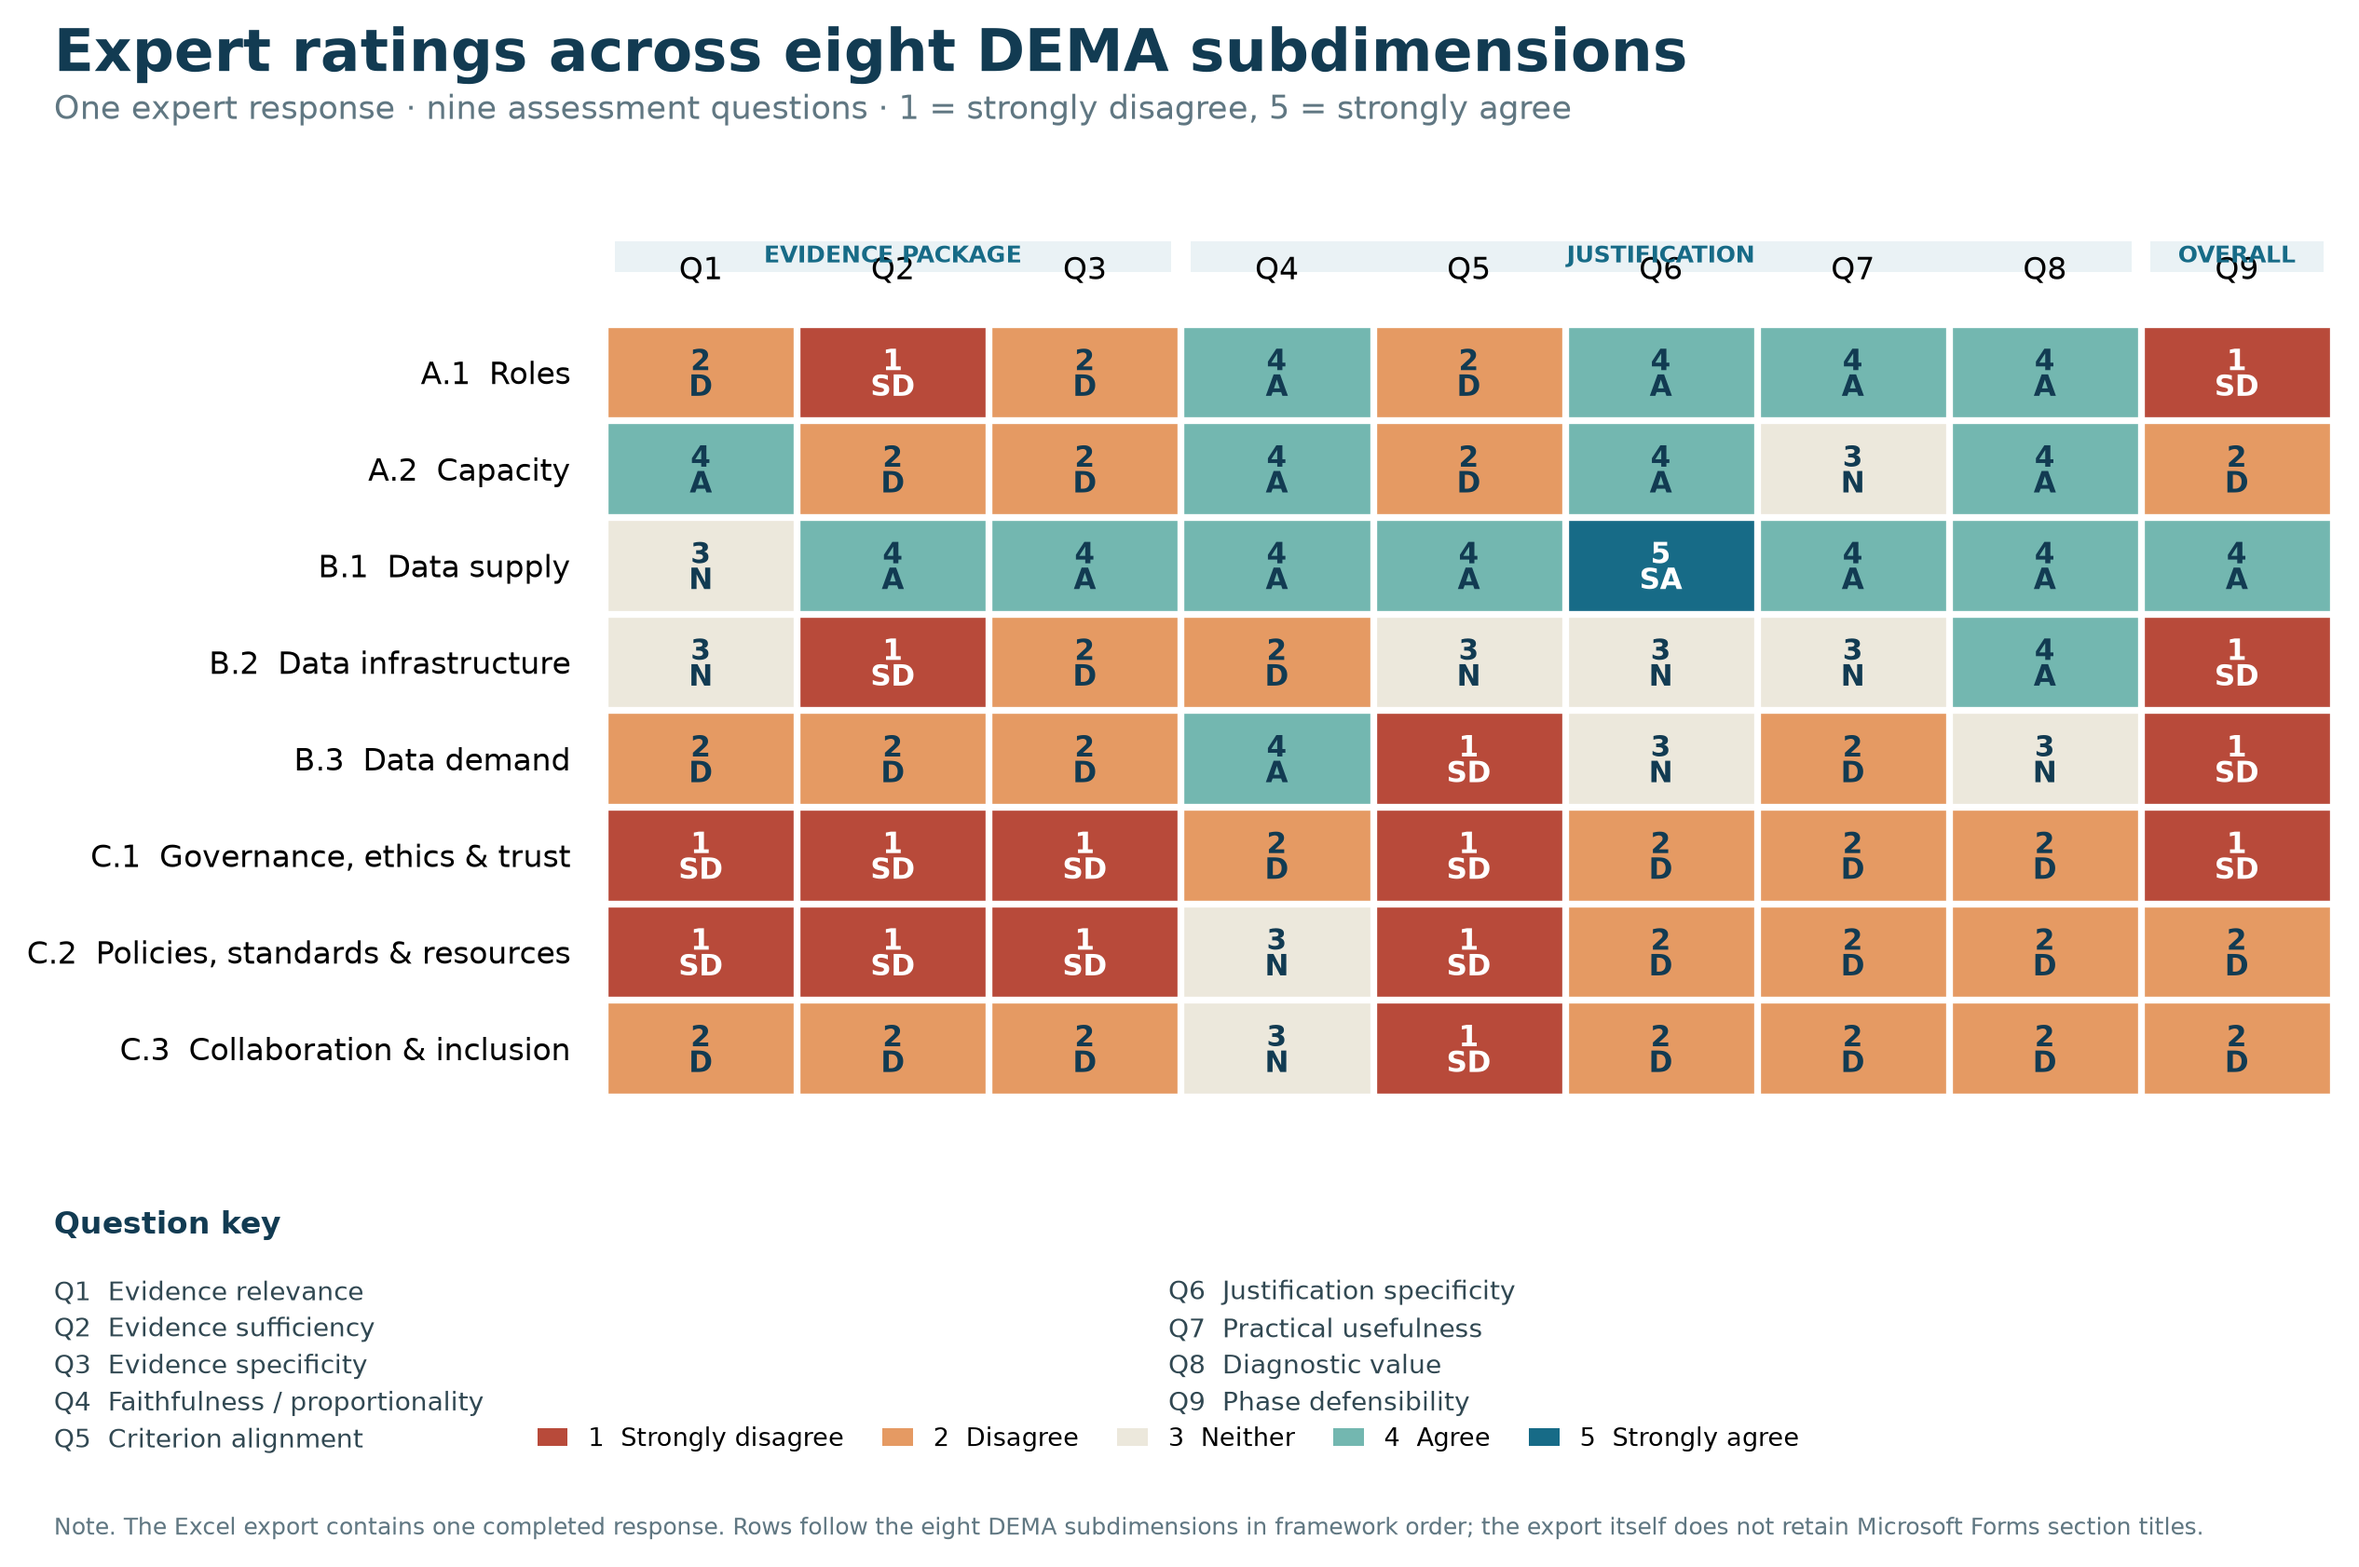
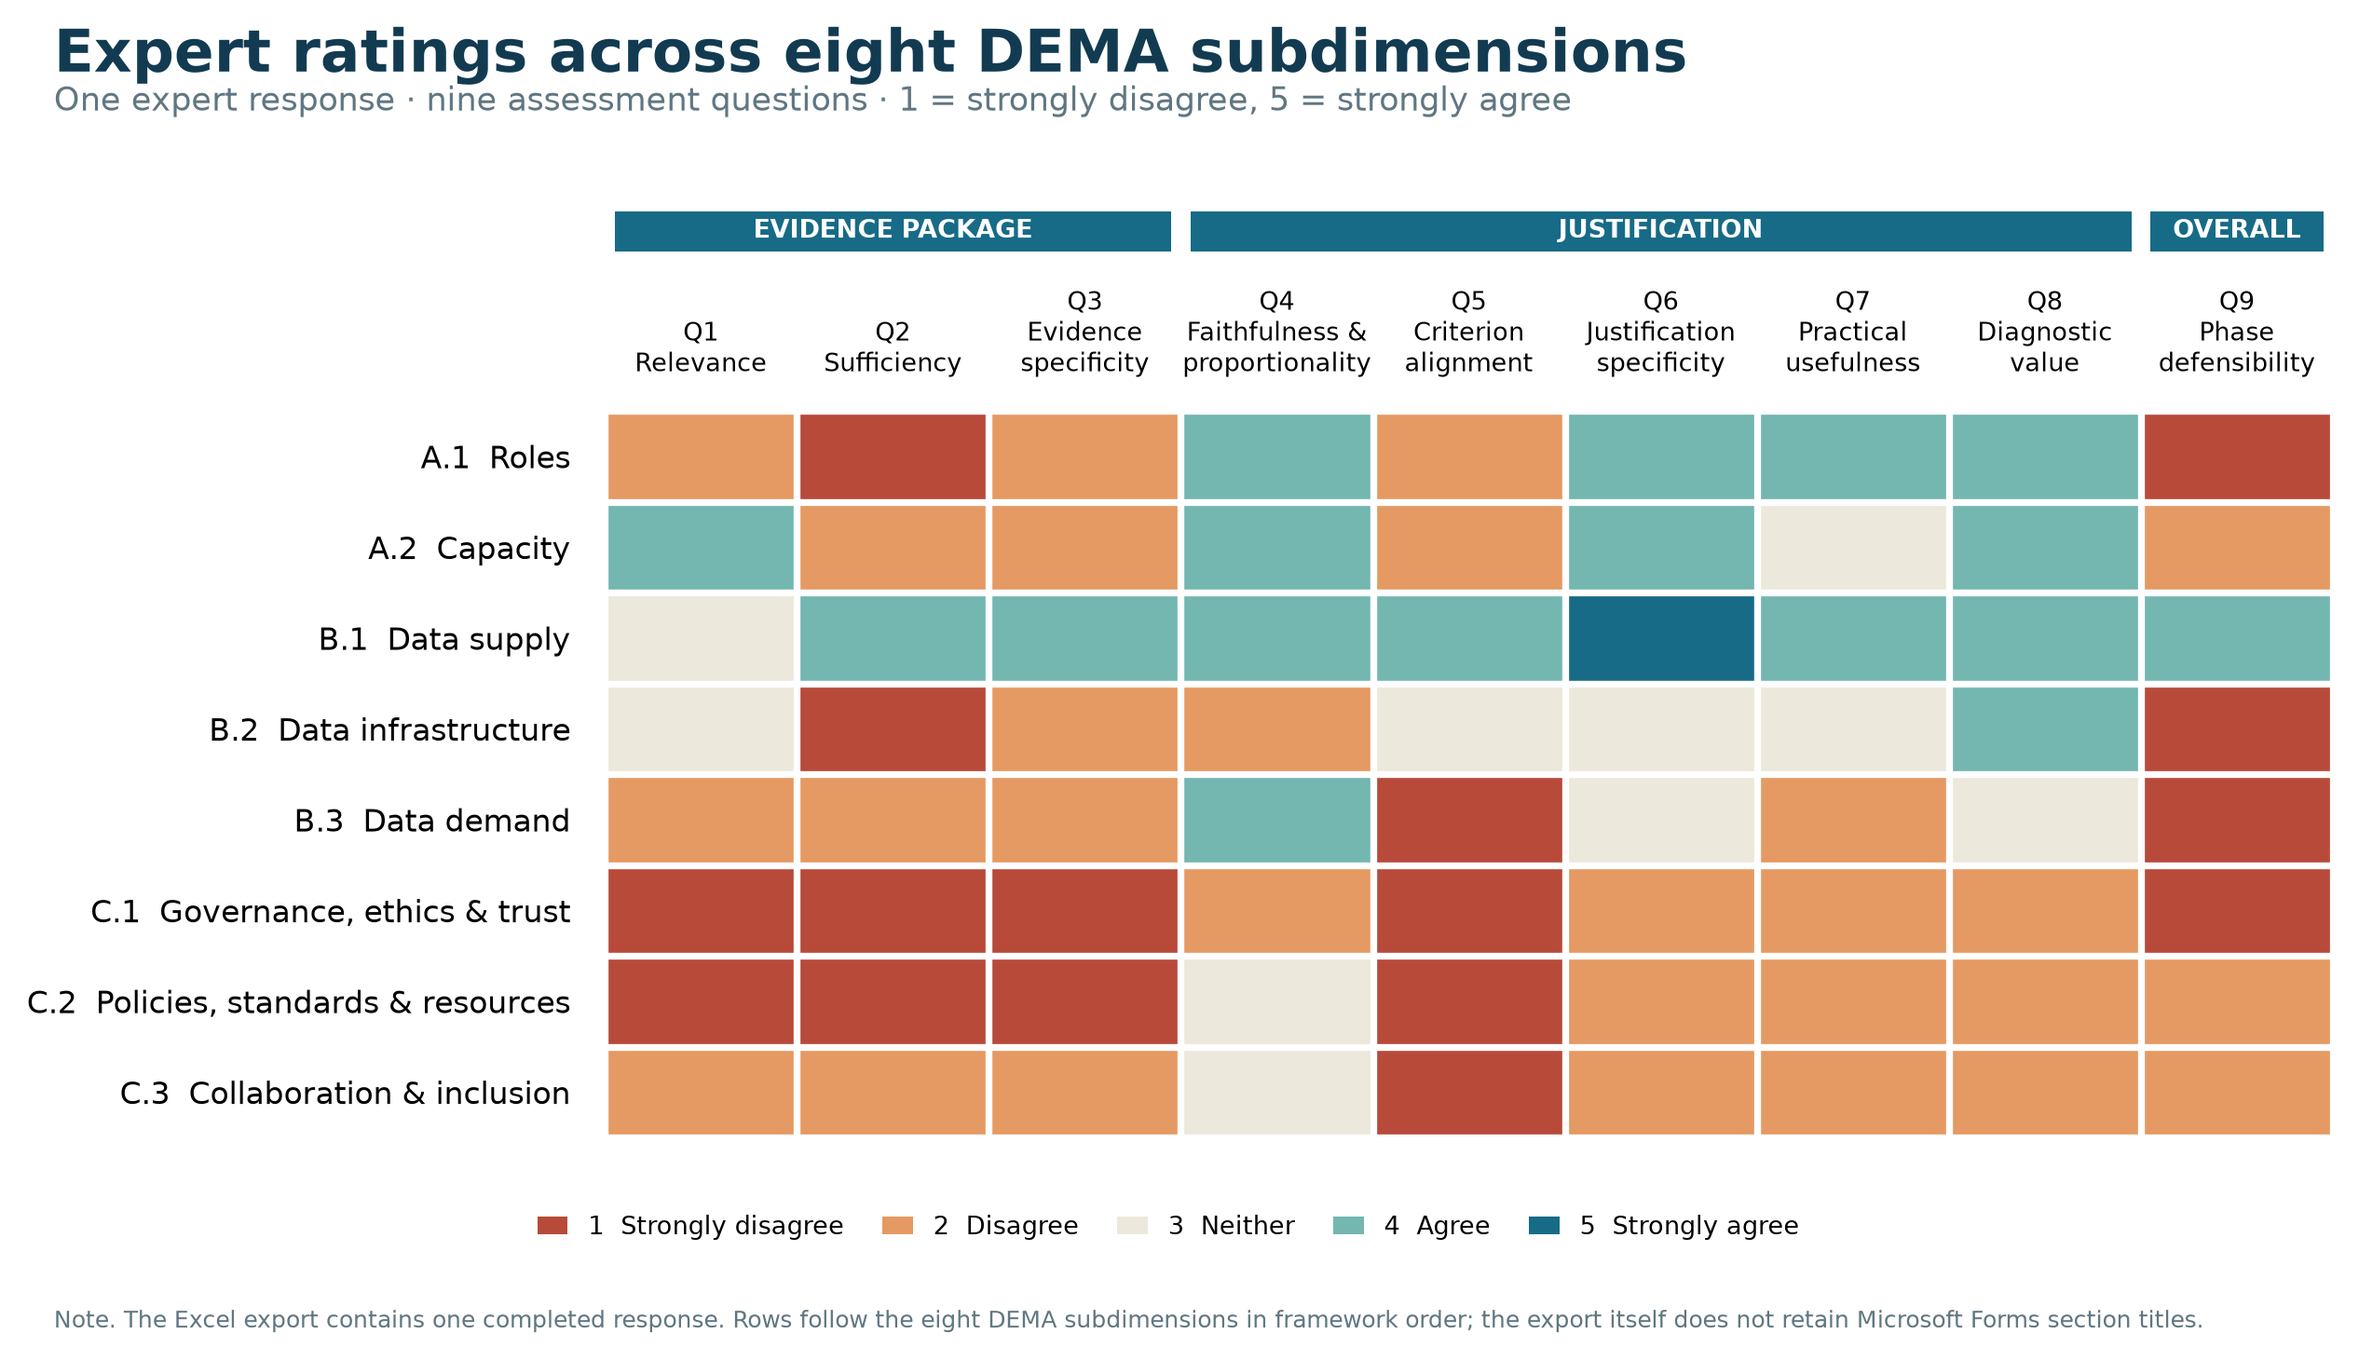
Simplify expert ratings heatmap

diff --git a/figures/generate_expert_ratings_heatmap.py b/figures/generate_expert_ratings_heatmap.py
@@ -33,15 +33,15 @@ SUBDIMENSIONS = [
 ]
 
 QUESTIONS = [
-    ("Q1", "Evidence relevance"),
-    ("Q2", "Evidence sufficiency"),
-    ("Q3", "Evidence specificity"),
-    ("Q4", "Faithfulness / proportionality"),
-    ("Q5", "Criterion alignment"),
-    ("Q6", "Justification specificity"),
-    ("Q7", "Practical usefulness"),
-    ("Q8", "Diagnostic value"),
-    ("Q9", "Phase defensibility"),
+    ("Q1", "Relevance"),
+    ("Q2", "Sufficiency"),
+    ("Q3", "Evidence\nspecificity"),
+    ("Q4", "Faithfulness &\nproportionality"),
+    ("Q5", "Criterion\nalignment"),
+    ("Q6", "Justification\nspecificity"),
+    ("Q7", "Practical\nusefulness"),
+    ("Q8", "Diagnostic\nvalue"),
+    ("Q9", "Phase\ndefensibility"),
 ]
 
 LIKERT = {
@@ -92,7 +92,7 @@ def main() -> None:
     norm = BoundaryNorm([0.5, 1.5, 2.5, 3.5, 4.5, 5.5], cmap.N)
 
     plt.rcParams.update({"font.family": "DejaVu Sans"})
-    fig, ax = plt.subplots(figsize=(11.2, 7.2), dpi=240)
+    fig, ax = plt.subplots(figsize=(11.2, 6.25), dpi=240)
     fig.patch.set_facecolor("white")
 
     fig.text(
@@ -115,10 +115,12 @@ def main() -> None:
 
     ax.imshow(ratings, cmap=cmap, norm=norm, aspect="auto")
 
-    ax.set_xticks(range(9), labels=[code for code, _ in QUESTIONS])
+    ax.set_xticks(
+        range(9), labels=[f"{code}\n{label}" for code, label in QUESTIONS]
+    )
     ax.set_yticks(range(8), labels=SUBDIMENSIONS)
     ax.tick_params(axis="x", top=True, bottom=False, labeltop=True, labelbottom=False,
-                   length=0, pad=12, labelsize=10)
+                   length=0, pad=10, labelsize=8.2)
     ax.tick_params(axis="y", length=0, pad=11, labelsize=10)
 
     # White separators make every response readable at Word-page size.
@@ -129,25 +131,8 @@ def main() -> None:
     for spine in ax.spines.values():
         spine.set_visible(False)
 
-    abbreviations = {1: "SD", 2: "D", 3: "N", 4: "A", 5: "SA"}
-    for row in range(ratings.shape[0]):
-        for column in range(ratings.shape[1]):
-            value = int(ratings[row, column])
-            text_colour = "white" if value in (1, 5) else NAVY
-            ax.text(
-                column,
-                row,
-                f"{value}\n{abbreviations[value]}",
-                ha="center",
-                va="center",
-                fontsize=9.2,
-                fontweight="bold",
-                color=text_colour,
-                linespacing=0.9,
-            )
-
-    # Compact construct labels above the column labels.
-    group_y = -1.20
+    # Strong construct labels above the descriptive column headings.
+    group_y = -2.48
     groups = [
         (-0.45, 2.45, "EVIDENCE PACKAGE"),
         (2.55, 7.45, "JUSTIFICATION"),
@@ -156,10 +141,10 @@ def main() -> None:
     for left, right, label in groups:
         ax.add_patch(
             Rectangle(
-                (left, group_y - 0.16),
+                (left, group_y - 0.22),
                 right - left,
-                0.32,
-                facecolor="#EAF2F5",
+                0.44,
+                facecolor=LLM_BLUE,
                 edgecolor="none",
                 clip_on=False,
             )
@@ -170,20 +155,11 @@ def main() -> None:
             label,
             ha="center",
             va="center",
-            fontsize=7.5,
+            fontsize=8.0,
             fontweight="bold",
-            color=LLM_BLUE,
+            color="white",
             clip_on=False,
         )
-
-    # Question key beneath the heatmap, split into two compact columns.
-    key_left = [f"{code}  {label}" for code, label in QUESTIONS[:5]]
-    key_right = [f"{code}  {label}" for code, label in QUESTIONS[5:]]
-    fig.text(0.055, 0.205, "Question key", fontsize=10, fontweight="bold", color=NAVY)
-    fig.text(0.055, 0.180, "\n".join(key_left), fontsize=8.4, color="#314852",
-             va="top", linespacing=1.42)
-    fig.text(0.50, 0.180, "\n".join(key_right), fontsize=8.4, color="#314852",
-             va="top", linespacing=1.42)
 
     legend_labels = [
         "1  Strongly disagree",
@@ -200,7 +176,7 @@ def main() -> None:
         legend_handles,
         legend_labels,
         loc="lower center",
-        bbox_to_anchor=(0.5, 0.055),
+        bbox_to_anchor=(0.5, 0.070),
         ncol=5,
         frameon=False,
         fontsize=8.2,
@@ -209,14 +185,14 @@ def main() -> None:
     )
     fig.text(
         0.055,
-        0.018,
+        0.024,
         "Note. The Excel export contains one completed response. Rows follow the eight DEMA subdimensions in framework order; "
         "the export itself does not retain Microsoft Forms section titles.",
         fontsize=7.5,
         color=MUTED,
     )
 
-    plt.subplots_adjust(left=0.275, right=0.965, top=0.77, bottom=0.29)
+    plt.subplots_adjust(left=0.275, right=0.965, top=0.68, bottom=0.16)
     fig.savefig(OUTPUT_PATH, facecolor="white", bbox_inches="tight", pad_inches=0.12)
     plt.close(fig)
     print(OUTPUT_PATH)
